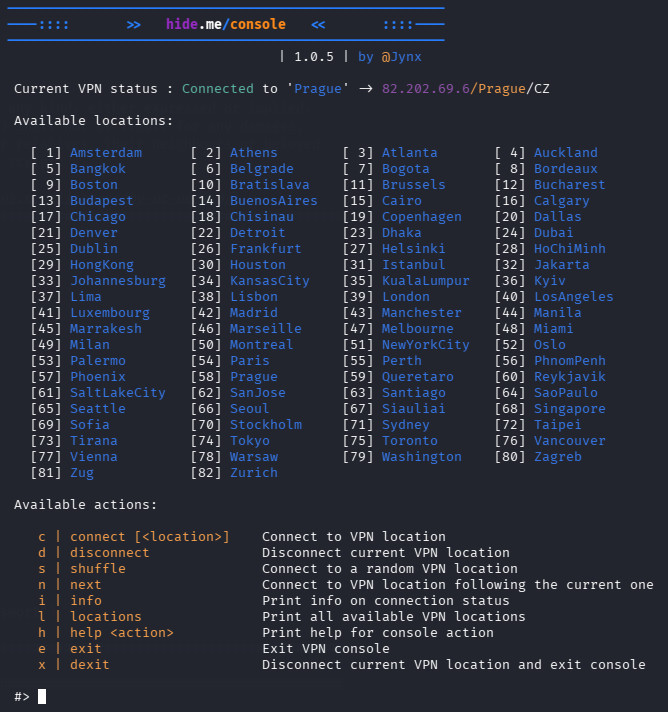
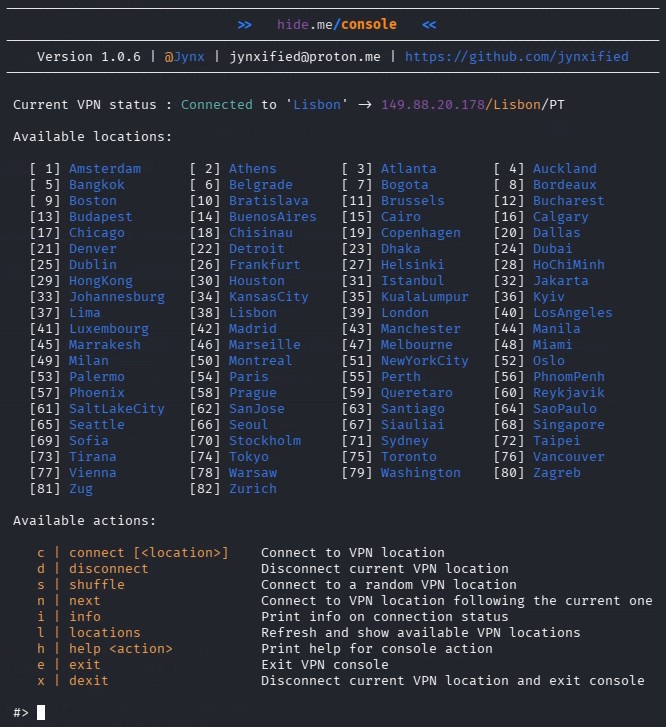
ocation names no longer need to be case-sensitive, and entering partial names is now supported.

diff --git a/README.md b/README.md
@@ -5,7 +5,7 @@ ____     _     _     _                             __                       _   
   > > > | '_ \| |/ _` |/ _ \ | '_ ` _ \ / _ \   / / __/ _ \| '_ \/ __|/ _ \| |/ _ \ < < <  
  / / /  | | | | | (_| |  __/_| | | | | |  __/  / / (_| (_) | | | \__ \ (_) | |  __/  \ \ \ 
 /_/_/   |_| |_|_|\__,_|\___(_)_| |_| |_|\___| /_/ \___\___/|_| |_|___/\___/|_|\___|   \_\_\
-											             Version 1.0.5			 @Jynx                                                                 
+											             Version 1.0.6			 @Jynx     
 ```
 
 # ## hide.me/console
@@ -26,14 +26,12 @@ Here's how it looks like...
 - **Helping hand:** Integrated help for all actions.
 - **Soft landing:** Doesn't destroy your life in case you do something wrong or stupid, but helps you gracefully instead.
 
-## ## What's new in Version 1.0.5?
+## ## What's new in Version 1.0.6?
 
-Fueled by sleepless nights and way too much coffee, I spared no expense or effort to bring you the following changes:
+Once again, spare no expense or effort to combat my boredom, I’ve added a few more gimmicks to this script that I personally find quite useful and handy:
 
-* **Cool new action to play with:** The `locations` action has been added to the interactive console so you can fetch and view the full list of VPN locations at any time. Curious? Then check out the details in the main guide below.
-* **Location name normalization, AKA grudgingly necessary bugfix:** VPN locations with weird special characters in their names—like "à", "ñ", or God knows what else (thanks a lot, France & Co.!)—are now automatically normalized because the hide.me service can't handle them. In other words: connecting to these locations is only possible if special characters are normalized, i.e. "à" becomes "a", "ñ" becomes "n", and so on. That’s exactly what happens now. Automatically. No voodoo required (anymore).
-* **Removing zombie units, AKA grudgingly necessary bugfix, part 2:** If a connection to a VPN location fails (for instance, because its name wasn't normalized...), hide.me leaves behind a rather weird "zombie unit"" that serves no purpose whatsoever—other than blocking all future VPN connections. Only hide.me knows why that’s even a thing. In any case, the script now tries its absolute best to clean up those zombies.
-* **Pleasing the customer (that's you!):** General error handling and console logging of the script was polished up a bit.
+* **Typing for dummies:** You no longer have to type full VPN location names to connect, and case doesn't matter anymore. For those who prefer a simple example: you can now just enter "lon" instead of "London", "london" instead of "London", or any variation thereof. Boom — just saved you a few more milliseconds of your lifetime. You're welcome.
+* **You are so beautiful:** After consulting with world-leading designers and marketing experts, the script header has been updated to be even cooler than it already was. It was a tough job, but somebody had to do it.
 
 ## ## Prerequisites
 
@@ -160,6 +158,7 @@ The following convenience features are built-in:
 * **Smooth switch:** If there's no active connection to a VPN location yet, the console will establish one. If, on the other hand, a VPN connection already exists, the console will switch from the current location to the newly specified one. This means there is no need for you to disconnect first—you can switch to another location seamlessly and without any hassle.
 * **Index-based connect:** Instead of typing in the full name of a location, you can also just pass the index number of it from the displayed list (see "hide.me VPN locations" above) to `connect`.
 * **Random connect:** If neither a location nor an index number is specified with `connect` (i.e. nothing at all), the console will connect to a location randomly selected from the full available list. If a VPN connection is currently active, `connect` ensures that the same location is not selected again, guaranteeing a completely new one.
+* **Type what you want:** VPN location names don't need to be typed out in full, any part of the name that uniquely identifies a single location is enough. For example: instead of "London", typing "Lon" or "lon" is totally fine. Case sensitivity also doesn't matter, "london" is completely equivalent to "London" or "lOnDoN" (for whatever reason anyone would write it like that...).
 
 **| Disconnecting VPN connections |**
 
@@ -269,6 +268,7 @@ What a brilliant transition: here is my contact info in case you want to get in,
 
 ## ## History
 
+* **1.0.6 (2026-07-30):** Location names no longer need to be case-sensitive, and entering partial names is now supported.
 * **1.0.5 (2026-07-24):** Added action "locations"; added removal of "zombie" units; improved handling of locations with names that contain special characters; improved error handling; user experience and script feedback slightly improved.
 * **1.0.1 (2026-07-09):** Added actions "shuffle", "next", and "dexit"; added help texts.
 * **1.0.0 (2026-07-07):** Initial version.
